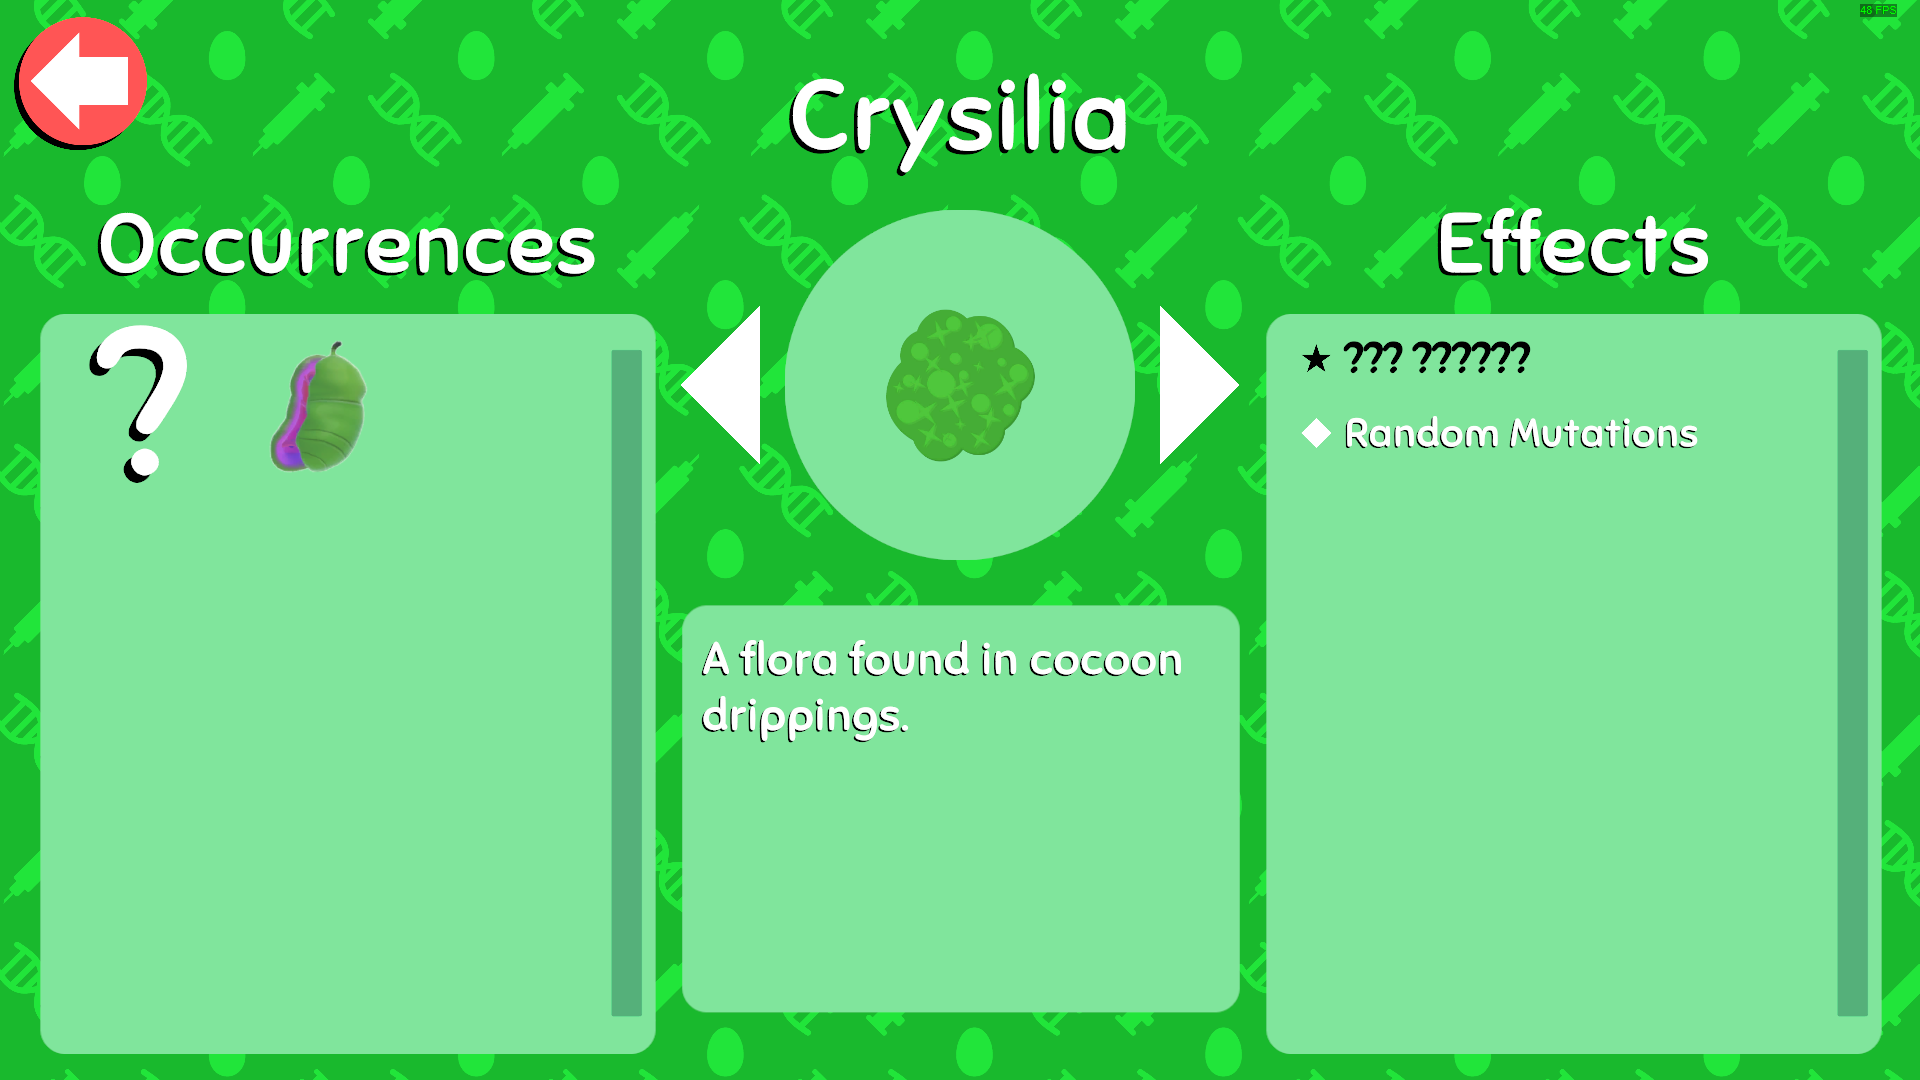
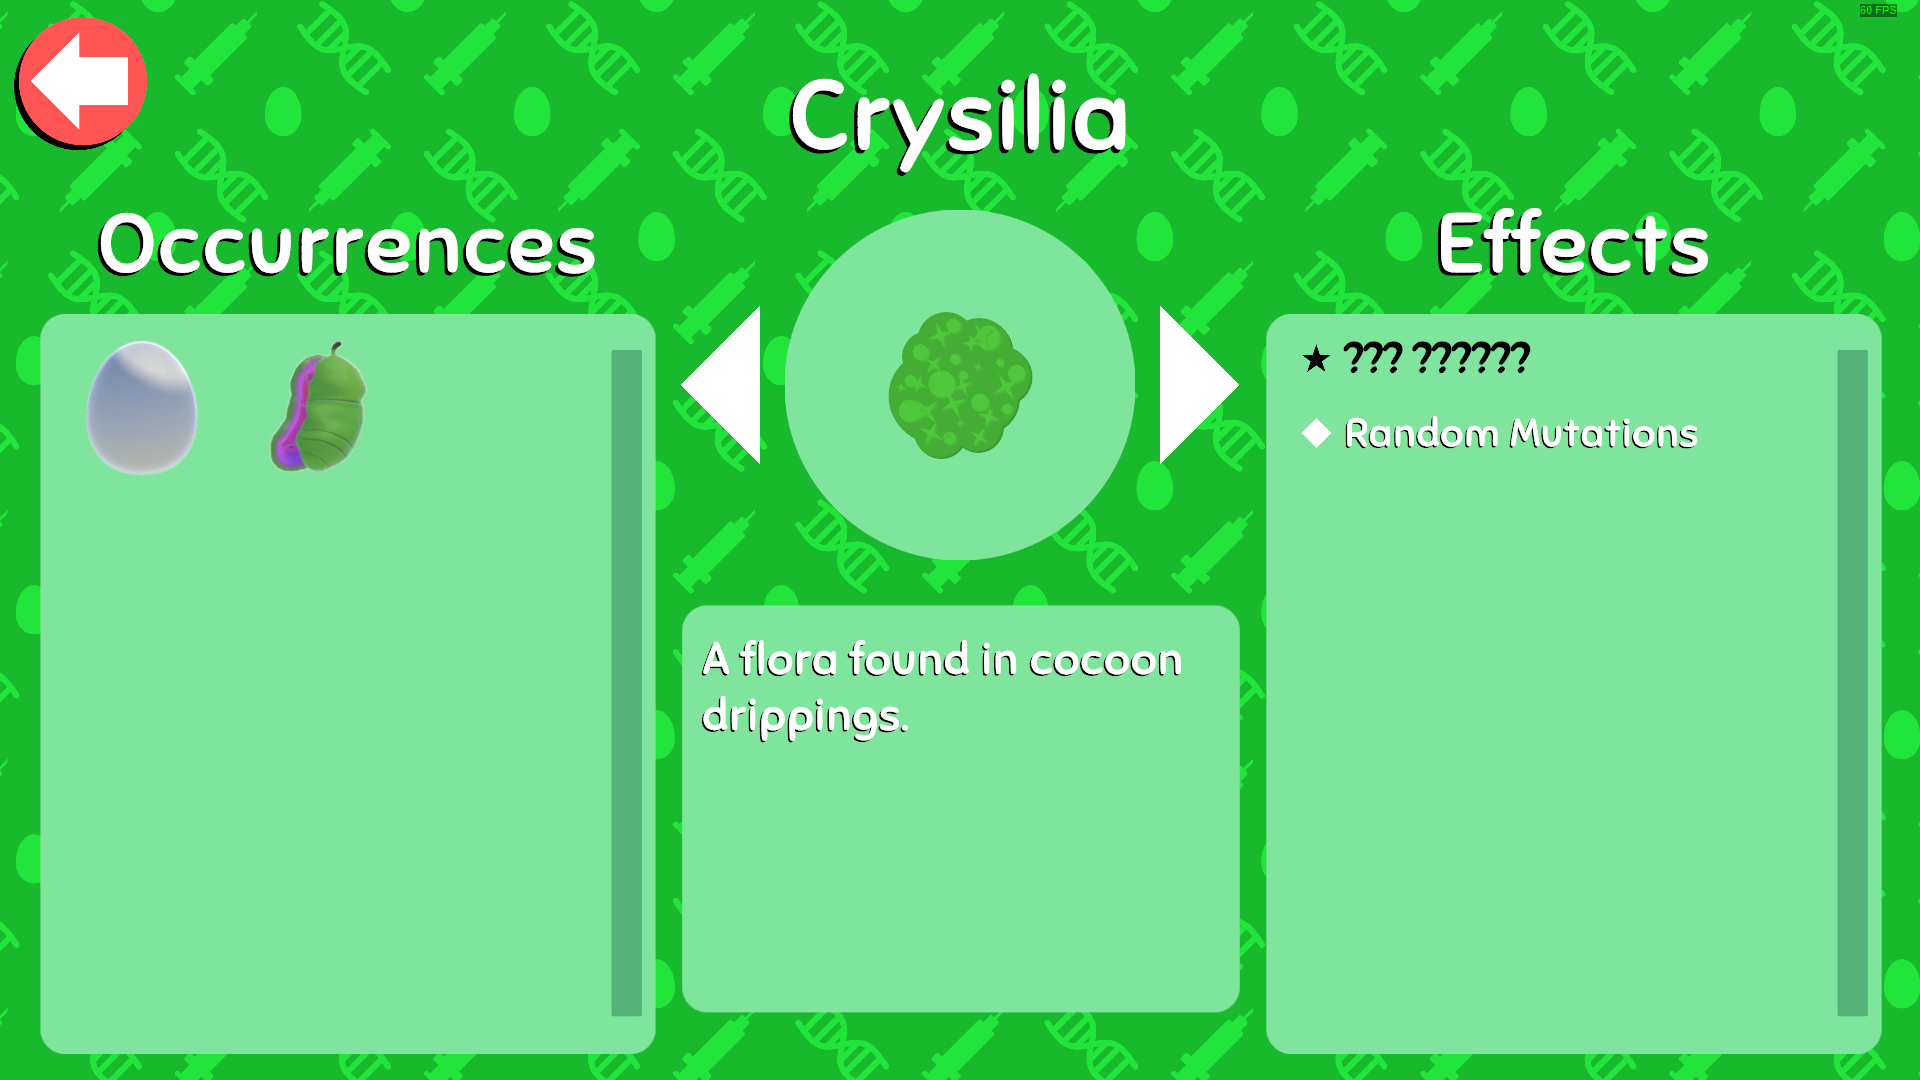
added food items

diff --git a/src/food.ts b/src/food.ts
@@ -127,6 +127,11 @@ export const doughnut: Food = {
   name: "Doughnut",
   image: "doughnut",
 };
+export const dudEgg: Food = {
+  name: "Dud Egg",
+  image: "dud-egg",
+};
+
 export const ectoplasm: Food = {
   name: "Ectoplasm",
   image: "ectoplasm",
@@ -181,6 +186,10 @@ export const honeyComb: Food = {
   name: "Honey Comb",
   image: "honey-comb",
 };
+export const insulationTuft: Food = {
+  name: "Insulation Tuft",
+  image: "insulation-tuft",
+};
 export const lasagna: Food = {
   name: "Lasagna",
   image: "lasagna",
@@ -221,6 +230,10 @@ export const pancake: Food = {
 export const pizzaBagel: Food = {
   name: "Pizza Bagel",
   image: "pizza-bagel",
+};
+export const pizzaTube: Food = {
+  name: "Pizza Tube",
+  image: "pizza-tube",
 };
 export const poop: Food = {
   name: "Poop",
@@ -274,6 +287,7 @@ export const foods: Food[] = [
   dogTail,
   dogWing,
   doughnut,
+  dudEgg,
   emptyCocoon,
   fishPellet,
   fortuneCookie,
@@ -286,6 +300,7 @@ export const foods: Food[] = [
   halfEatenFood,
   hamSlider,
   honeyComb,
+  insulationTuft,
   lasagna,
   lunarPie,
   macaron,
@@ -296,6 +311,7 @@ export const foods: Food[] = [
   onionRing,
   pancake,
   pizzaBagel,
+  pizzaTube,
   poop,
   pumpkinPie,
   sampleCup,

diff --git a/src/flora.ts b/src/flora.ts
@@ -153,7 +153,7 @@ export const crysalia: Flora = {
   name: "Crysalia",
   image: "flora_1_4",
   description: "A flora found in the cocoon drippings.",
-  foods: [food.unknown, food.emptyCocoon],
+  foods: [food.dudEgg, food.emptyCocoon],
   effects: [effect.unknown, effect.randomMutations],
   rarities: [star, circle],
 };
@@ -190,7 +190,7 @@ export const ectobacter: Flora = {
   name: "Ectobacter",
   image: "flora_1_8",
   description: "It might hurt to step on this flora if it wasn't so small.",
-  foods: [food.dehydratedTreat, food.moonCheese, food.unknown],
+  foods: [food.dehydratedTreat, food.moonCheese, food.pizzaTube],
   effects: [effect.skinnyLegs, effect.thinBody, effect.tinyTail],
   rarities: [triangle, circle, circle],
 };

diff --git a/src/images.py b/src/images.py
@@ -107,11 +107,13 @@ def crop_grid_from_folder(source_folder, output_folder, low_variance_output_fold
         "flora-1-0-food-1-0": "cheese-ball",
         "flora-1-2-food-1-0": "pumpkin-pie",
         "flora-1-3-food-0-0": "fortune-cookie",
+        "flora-1-4-food-0-0": "dud-egg",
         "flora-1-4-food-0-1": "empty-cocoon",
         "flora-1-6-food-0-0": "dirt-clump",
         "flora-1-7-food-0-0": "ham-slider",
         "flora-1-7-food-0-1": "moon-cheese",
         "flora-1-8-food-0-0": "dehydrated-treat",
+        "flora-1-8-food-0-2": "pizza-tube",
         "flora-1-9-food-0-0": "ectoplasm",
         "flora-2-0-food-0-1": "fruit-cake",
         "flora-2-1-food-0-0": "candy-cane",
@@ -126,6 +128,7 @@ def crop_grid_from_folder(source_folder, output_folder, low_variance_output_fold
         "flora-3-0-food-0-2": "garlic-bulb",
         "flora-3-1-food-0-2": "gourd",
         "flora-3-2-food-0-0": "burnt-dog-biscuit",
+        "flora-3-3-food-0-0": "insulation-tuft",
         "flora-3-4-food-0-2": "chicken-nugget",
         "flora-3-5-food-0-0": "french-fry",
         "flora-3-7-food-0-0": "sample-cup",
